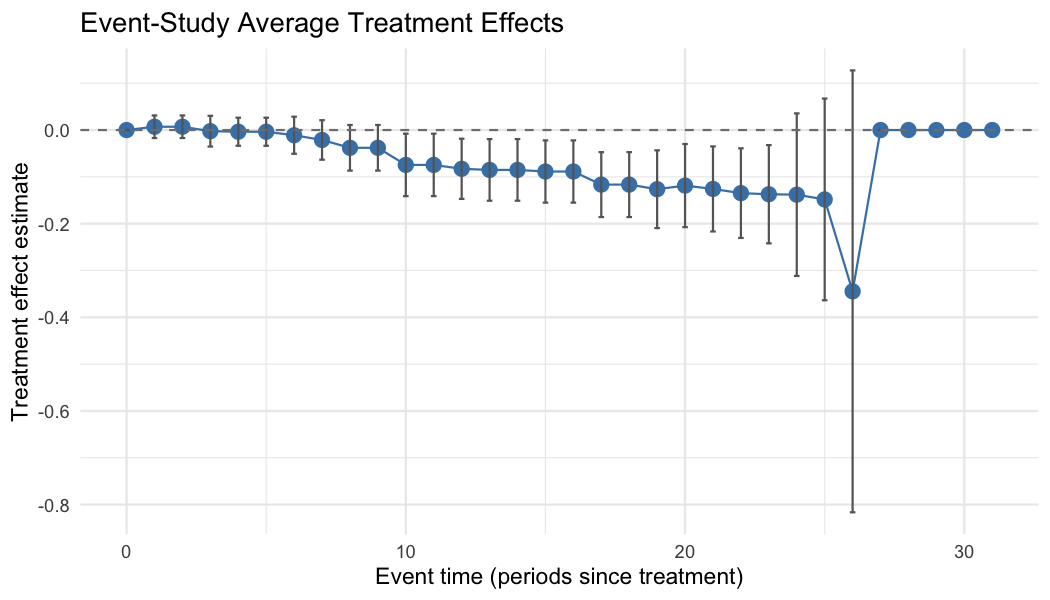
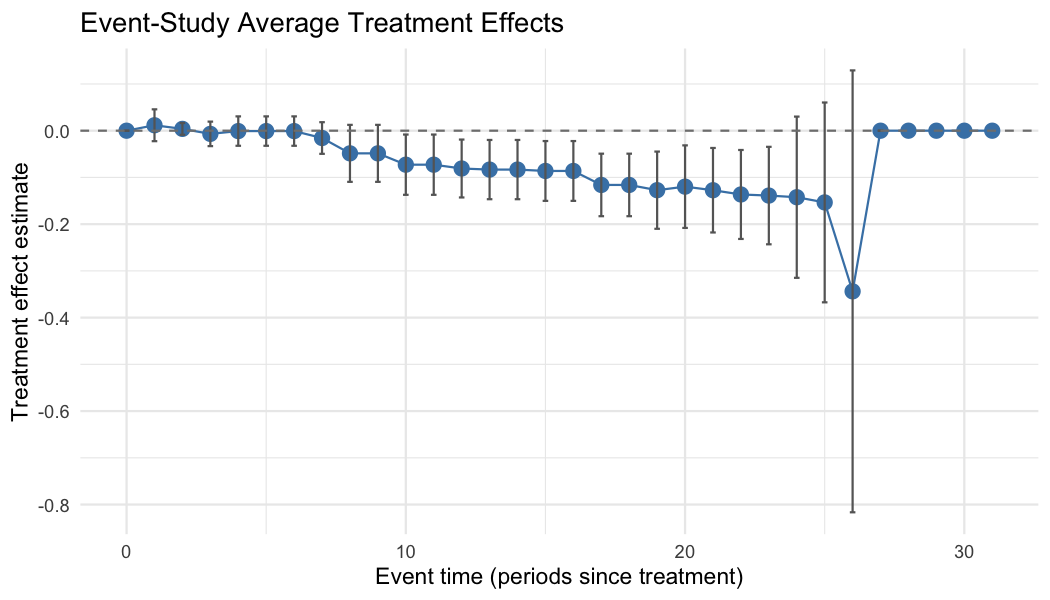
docs: re-knit README.md, whose committed output #428 moved (#428)
README.md carries knitted output of the divorce call (supplied variances,
add_ridge = TRUE) that the unit-free ridge and the standardized grid move:
the ATT goes from -0.0602 to -0.0596, cohort 1980 is now fused to zero, and
every other cohortStudy() row's digits move. devtools::build_readme()
regenerates the output and the event-study figure drawn from the same fit;
the prose is unchanged (sentinel C1-B).

diff --git a/README.md b/README.md
@@ -104,7 +104,7 @@ round(c(
     CI_high = res$att_hat + qnorm(0.975) * res$att_se
 ), 4)
 #>     ATT      SE  CI_low CI_high 
-#> -0.0602  0.0188 -0.0970 -0.0233
+#> -0.0596  0.0186 -0.0960 -0.0232
 ```
 
 (`summary(res)` prints the full report — overall ATT, per-cohort and
@@ -119,17 +119,17 @@ FETWFE kept distinct rather than fusing to zero:
 cohortStudy(res)
 #>    cohort    estimate          se       ci_low      ci_high      p_value selected
 #> 1    1969  0.00000000 0.000000000  0.000000000  0.000000000           NA    FALSE
-#> 2    1970 -0.44401171 0.046498180 -0.572555501 -0.315467911 0.000000e+00     TRUE
-#> 3    1971 -0.02633974 0.020112012 -0.081939211  0.029259735 8.474215e-01     TRUE
-#> 4    1972 -0.01611957 0.009359074 -0.041992646  0.009753503 5.468636e-01     TRUE
-#> 5    1973 -0.06452464 0.013062067 -0.100634602 -0.028414670 7.037395e-06     TRUE
-#> 6    1974 -0.03001991 0.012978739 -0.065899516  0.005859696 1.707508e-01     TRUE
+#> 2    1970 -0.44275152 0.046410168 -0.569265971 -0.316237066 0.000000e+00     TRUE
+#> 3    1971 -0.03269001 0.019825552 -0.086734613  0.021354583 5.628621e-01     TRUE
+#> 4    1972 -0.01624466 0.009356597 -0.041750806  0.009261495 4.947428e-01     TRUE
+#> 5    1973 -0.06295968 0.013023899 -0.098462923 -0.027456439 1.069370e-05     TRUE
+#> 6    1974 -0.03051791 0.012975096 -0.065888117  0.004852291 1.392168e-01     TRUE
 #> 7    1975  0.00000000 0.000000000  0.000000000  0.000000000           NA    FALSE
-#> 8    1976 -0.04379642 0.063672429 -0.219818270  0.132225427 9.976219e-01     TRUE
-#> 9    1977 -0.12389080 0.024178412 -0.190731799 -0.057049799 2.691903e-06     TRUE
-#> 10   1980 -0.04013226 0.061547270 -0.210279123  0.130014613 9.984244e-01     TRUE
+#> 8    1976 -0.03584431 0.063581218 -0.209167164  0.137478549 9.988446e-01     TRUE
+#> 9    1977 -0.12340880 0.024169900 -0.189296123 -0.057521483 2.634343e-06     TRUE
+#> 10   1980  0.00000000 0.000000000  0.000000000  0.000000000           NA    FALSE
 #> 11   1984  0.00000000 0.000000000  0.000000000  0.000000000           NA    FALSE
-#> 12   1985  0.14972560 0.050875421  0.009080967  0.290370243 2.880518e-02     TRUE
+#> 12   1985  0.14777033 0.050861041  0.009122763  0.286417890 2.890215e-02     TRUE
 ```
 
 **3. Plot it.** `plot()` draws the event-study estimates with confidence
